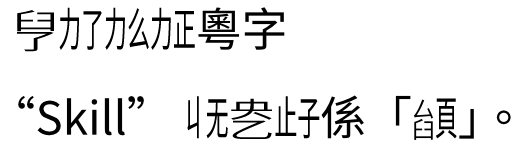
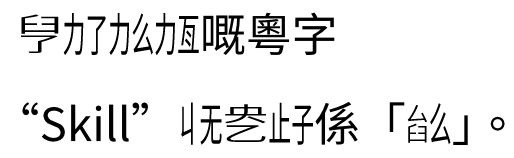
Corrected typo in sample picture
also updated README to according to previous commit

diff --git a/README.md b/README.md
@@ -6,7 +6,7 @@ A Typst package for rendering
 
 ## Features
 
-- Jyutcitzi generate from jyutping (粵拼)
+- Jyutcitzi generation from jyutping (粵拼)
 - Compound initial support
 
 ## Usage
@@ -16,11 +16,11 @@ A Typst package for rendering
 // Set to any font that contains the Jyutcitzi alphabets
 #set text(font: "Noto Sans CJK TC")
 
-#jyutcitzi("keu")#jyutcitzi("leu")#jyutcitzi("liu")#jyutcitzi("leng")粵字
+#jyutcitzi("keu leu liu lang")嘅粵字
 
-"Skill" #jyutcitzi("ge")#jyutcitzi("jyut")#jyutcitzi("zi")係「#combine-parts(
+"Skill"#jyutcitzi("ge jyut zi")係「#combine-parts(
   combine-parts(beginnings-dict.s.at(0), beginnings-dict.k.at(0), "-"),
-  "頁",
+  "么",
   "|"
 )」。
 ```
